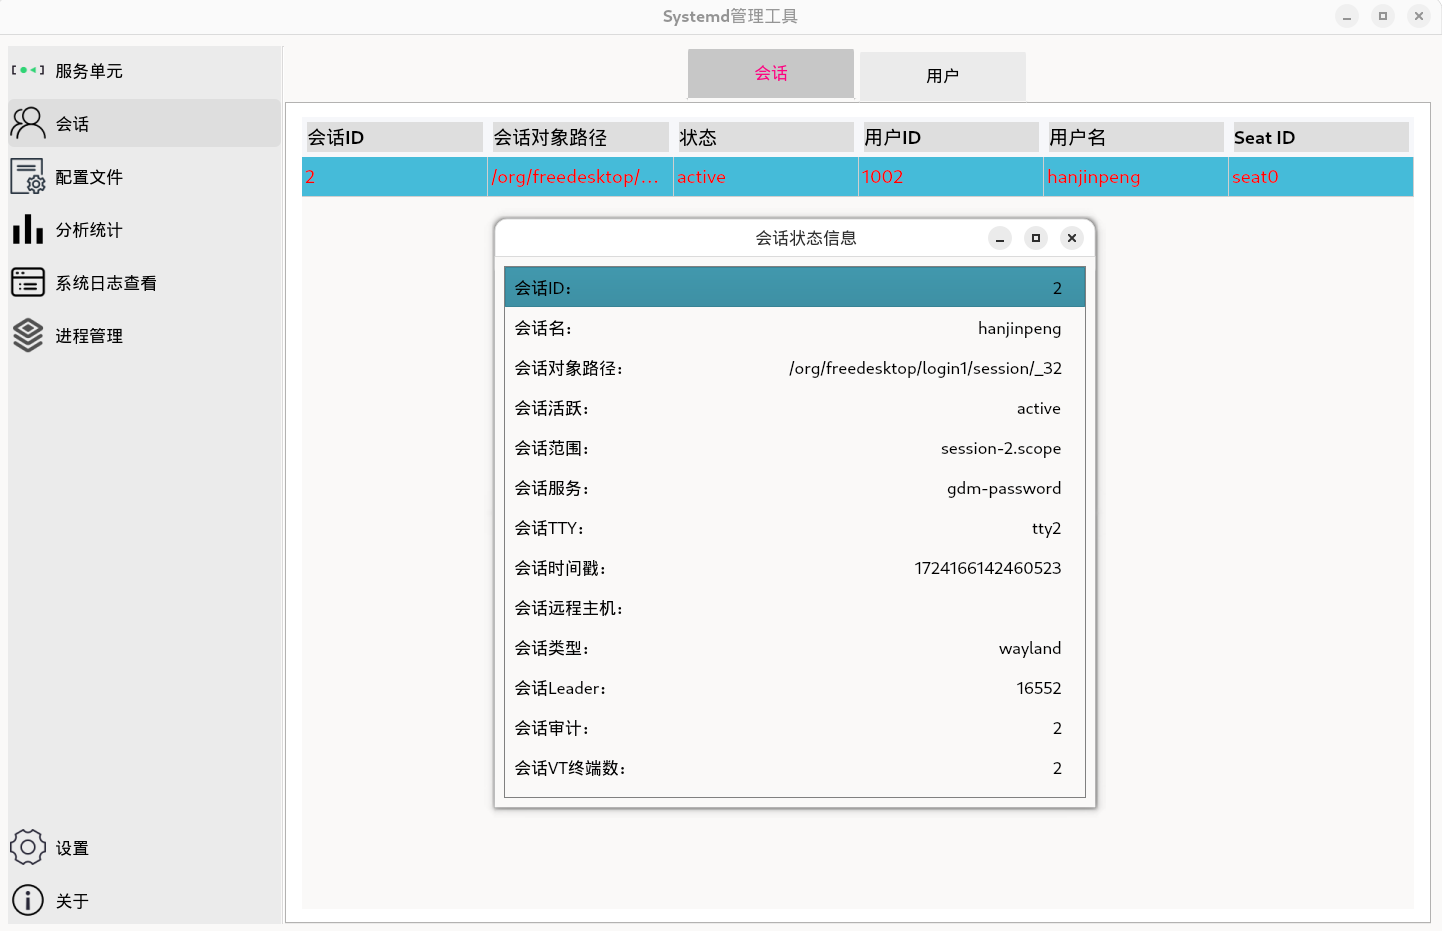
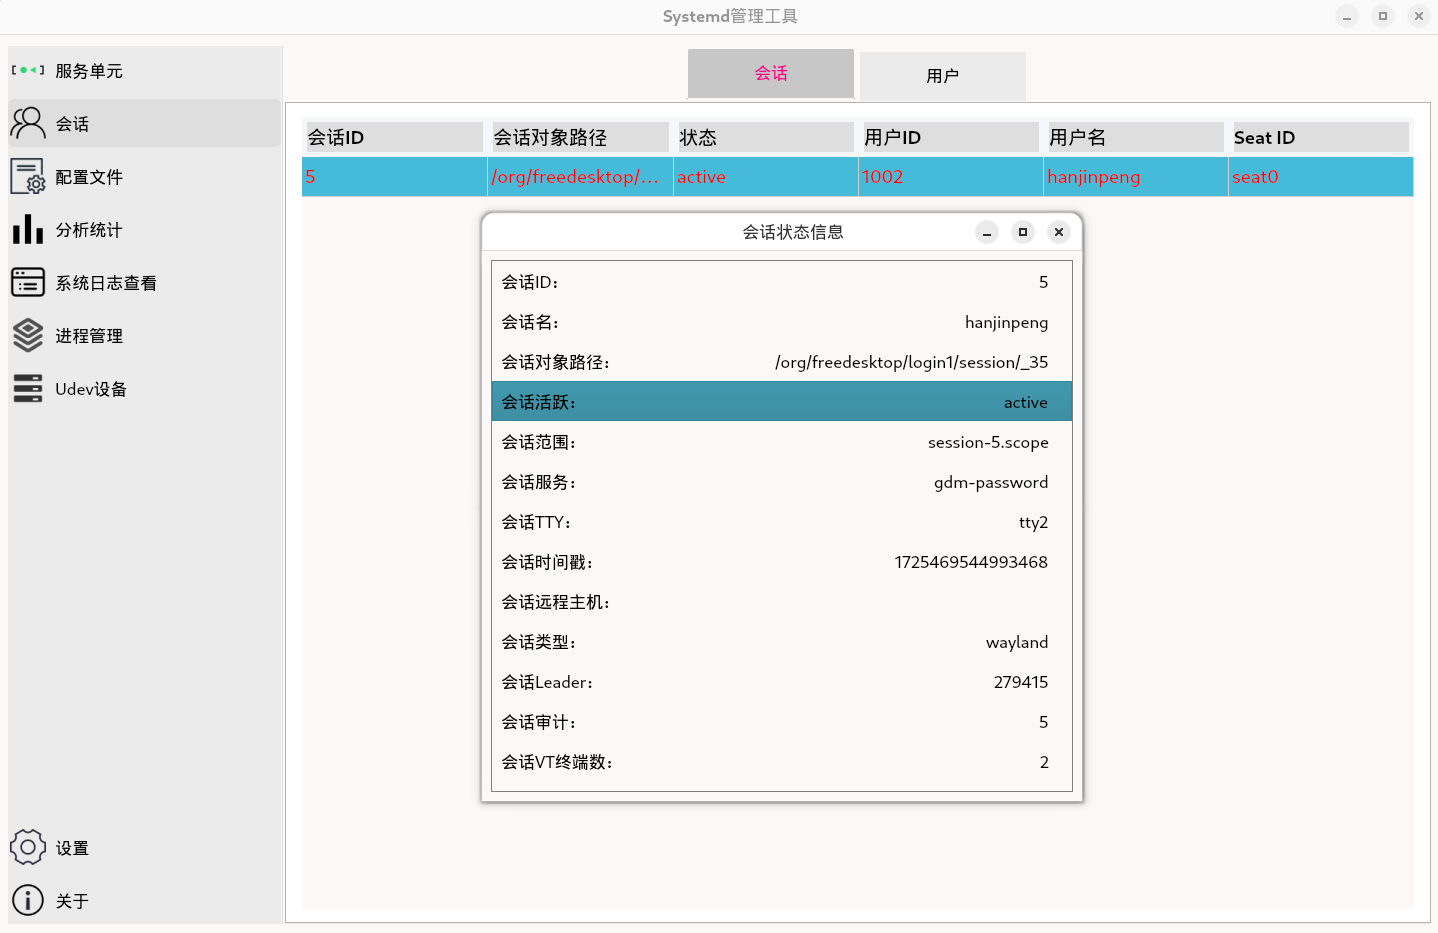
update readme.md and images

diff --git a/README.md b/README.md
@@ -52,6 +52,10 @@ Display session status information, such as ID, name, path, status, TTY, etc
 View and manage the configuration files of systemd, modify parameter values
 ![config file](images/en/config-file-view-1.png "config file info")
 
+### Configuration file detail:
+display  detail information for configuration files of systemd
+![config file detail](images/en/config-file-detail-1.png "config file detail")
+
 ### Journal log:
 View system logs, select time period and log level
 ![journal log](images/en/journal-log-view-1.png "show journal log")
@@ -67,6 +71,14 @@ Display the currently running process, filter process names, and users
 ### Process Details Information:
 Display process detail information, eg: name, id, state, memory, etc
 ![process detail](images/en/process-detail-view-1.png "process detail information")
+
+### Udev Device View:
+Display the all udev device event
+![udev device view](images/en/udev-device-view-1.png "udev device view")
+
+### Udev Device Details information:
+Display udev device detail information, eg: path,  subsystem, type,node,action etc
+![udev device detail](images/en/udev-device-detail-1.png "udev device detail information")
 
 ### Preferred settings:
 Setting system preferences, setting display language

diff --git a/README.zh.md b/README.zh.md
@@ -49,6 +49,9 @@ cd dist
 ### 配置文件：
 对systemd的配置文件进行查看管理，修改参数项值
 ![config file](images/zh/config-file-view-1.png "config file info")
+### 配置文件详情：
+显示systemd的配置文件信息，参数字段，参数值等
+![config file detail](images/en/config-file-detail-1.png "config file detail")
 
 ### journal日志：
 查看系统的日志，可以选择时间段，日志级别
@@ -65,6 +68,15 @@ cd dist
 ### 进程详细信息:
 显示进程详细信息，例如:进程名，id，状态，内存等
 ![process detail](images/zh/process-detail-view-1.png "process detail information")
+
+### Udev设备：
+显示系统所有的Udev设备项信息
+![udev device view](images/en/udev-device-view-1.png "udev device view")
+
+### Udev设备详情:
+显示Udev设备信息，例如:进程名，id，状态，内存等
+![udev device detail](images/en/udev-device-detail-1.png "udev device detail information")
+
 
 ### 首选项设置：
 系统首选项的设置，设置显示语言
